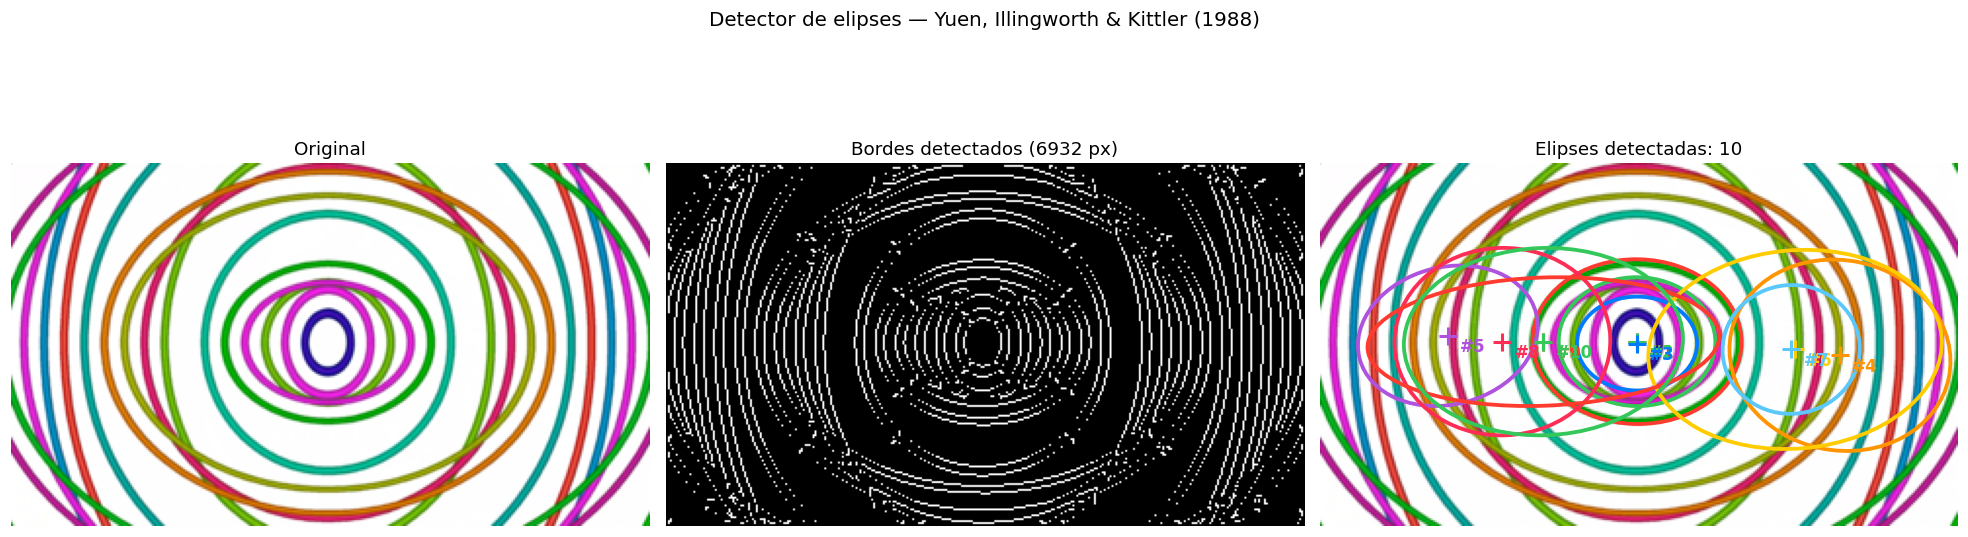
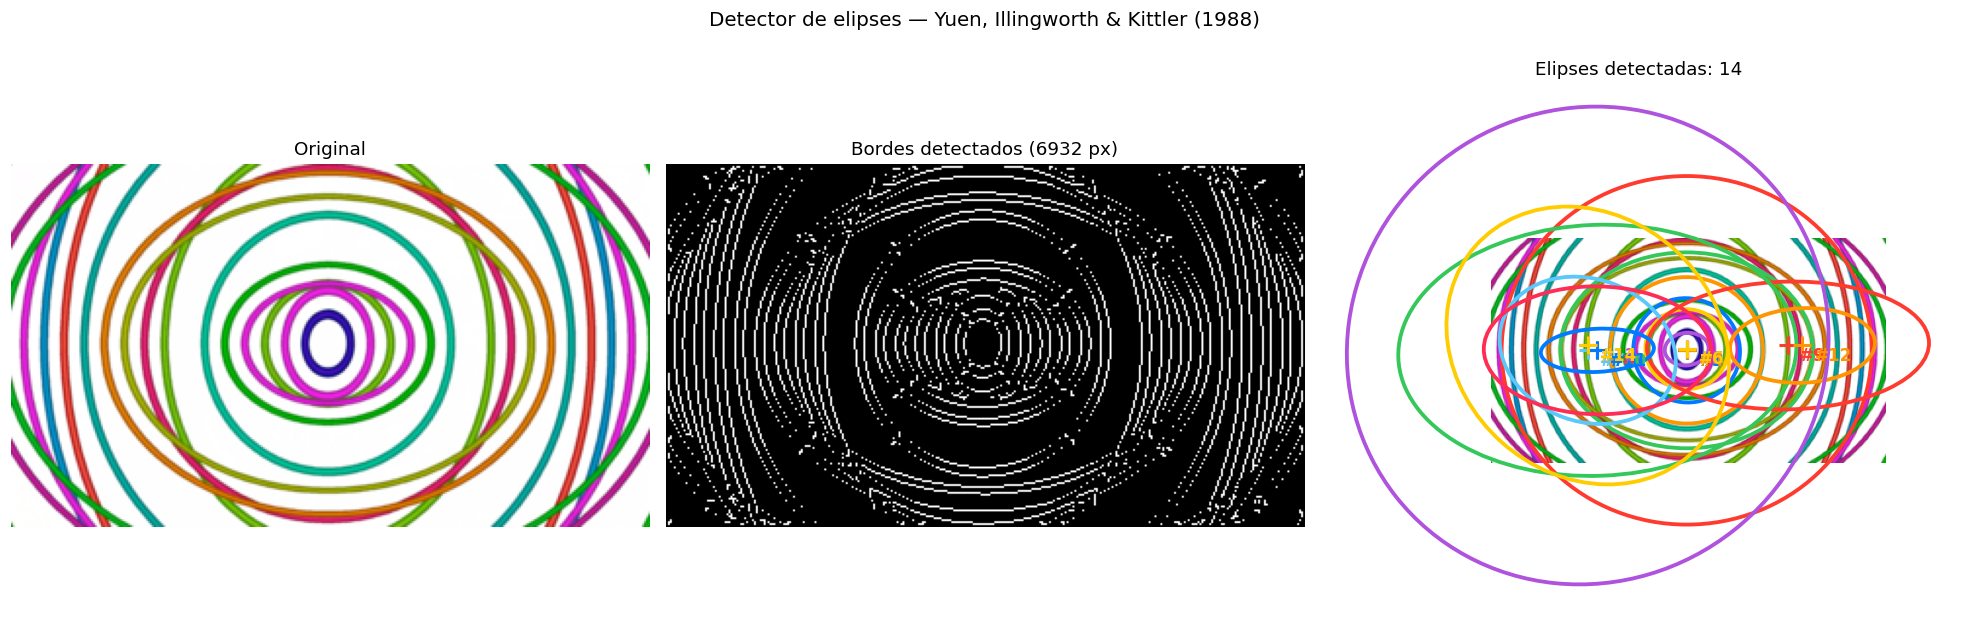
2

diff --git a/run.py b/run.py
@@ -16,8 +16,10 @@ def main() -> None:
     config = DetectorConfig(
         canny_low=20.0,
         canny_high=60.0,
-        max_edge_points=4000,
-        max_ellipses=10,
+        max_edge_points=4000,   # 327x186 → ~5700 bordes; submuestreo a 4000
+        max_ellipses=15,        # ~12-14 elipses visibles en data/image.png
+        aht_radius=200.0,       # semiejes exteriores llegan a ~163px; 200 da margen
+        # delta_x / delta_y: auto-escalado por densidad (~30px para esta imagen)
     )
 
     print(f"Imagen: {image.shape[1]}x{image.shape[0]} px")